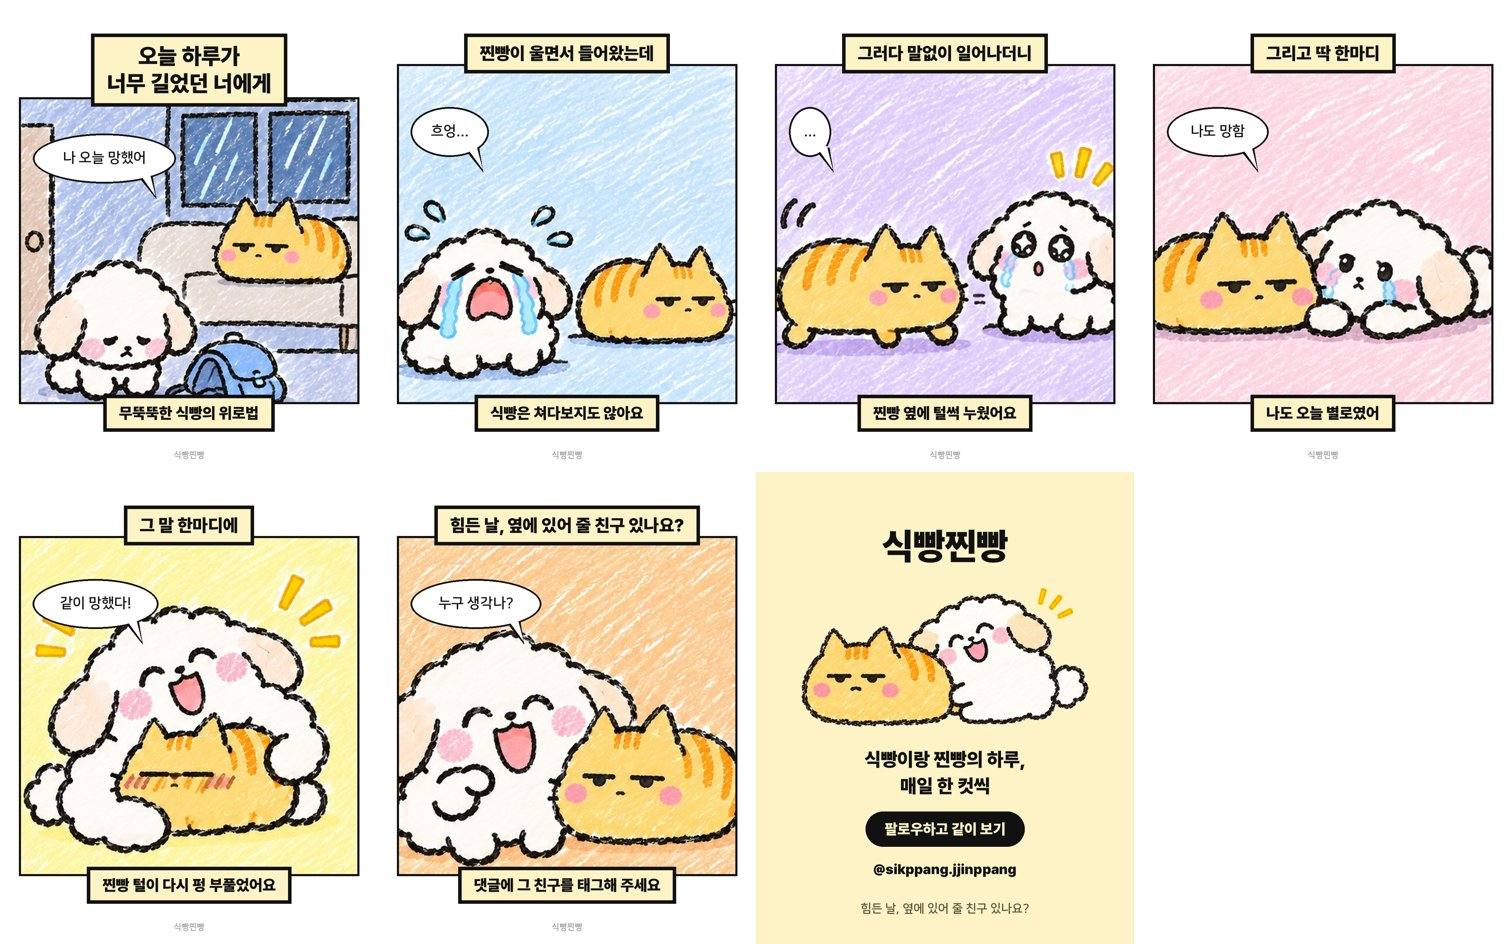
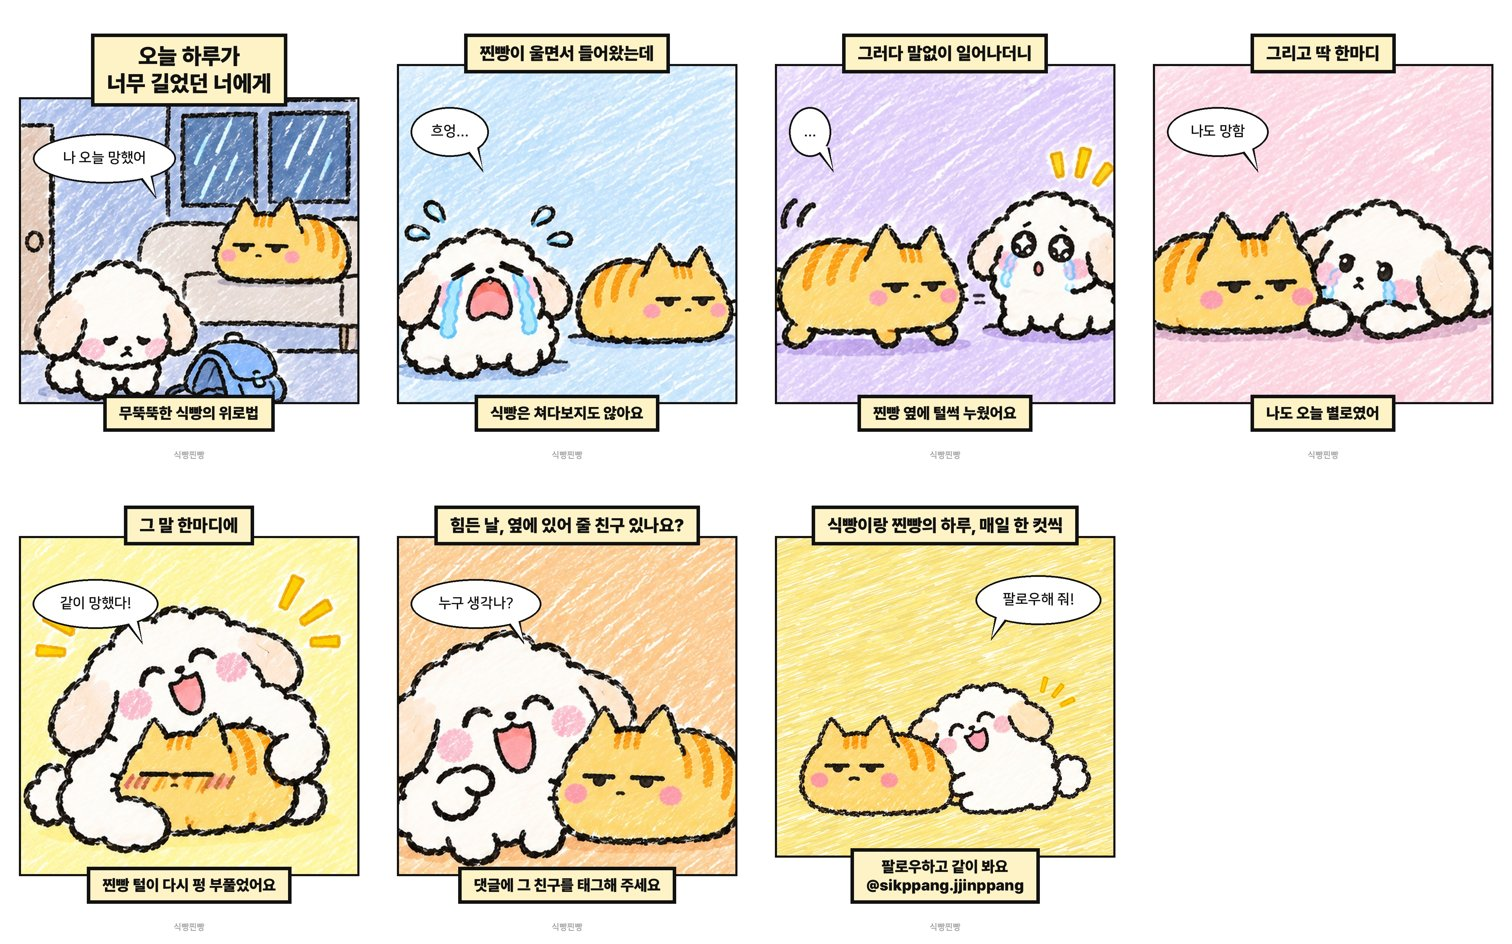
식빵찐빵 마지막 장을 툰 칸 틀(크레파스 배경·말풍선)로 변경
Claude-Session: https://claude.ai/code/session_013eU9uq1P2Bb4dDg9KpxaiF

Changed region(s): [[0.4974, 0.4915, 0.7771, 1.0]]

diff --git a/screendaily/cards.py b/screendaily/cards.py
@@ -1362,38 +1362,37 @@ def render_follow_card(post: Post, config: dict) -> Image.Image:
     return canvas.convert("RGB")
 
 
+def _crayon_panel(size: tuple[int, int], base=(255, 232, 130), seed: int = 7) -> Image.Image:
+    """크레파스로 쓱쓱 문지른 듯한 단색 배경 (사선 짧은 획 + 종이 틈)."""
+    import random
+    rnd = random.Random(seed)
+    w, h = size
+    im = Image.new("RGB", size, (255, 252, 240))
+    d = ImageDraw.Draw(im)
+    for _ in range(int(w * h / 90)):
+        x, y = rnd.uniform(-40, w), rnd.uniform(-20, h)
+        ln = rnd.uniform(30, 90)
+        k = rnd.uniform(-14, 10)
+        c = tuple(max(0, min(255, int(v + k))) for v in base)
+        d.line((x, y + ln * 0.35, x + ln, y), fill=c, width=rnd.choice((2, 3, 3, 4)))
+    return im.filter(ImageFilter.GaussianBlur(0.6))
+
+
 def render_toon_follow(post: Post, config: dict) -> Image.Image:
-    """인스타툰 채널 마지막 장: 크림색 바탕 + 캐릭터 그림 + 채널 이름·팔로우 버튼 (outro.style: toon_follow)."""
+    """인스타툰 채널 마지막 장: 툰 칸과 같은 틀(위·아래 크림 상자 + 크레파스 칸 + 말풍선) (outro.style: toon_follow)."""
     o = config.get("outro", {})
-    canvas = Image.new("RGBA", (W, H), TOON_BOX + (255,))
-    d = ImageDraw.Draw(canvas)
-    d.text((W / 2, 150), config.get("brand", ""), font=font(TOON_FONT, 104), fill=TOON_INK, anchor="ma")
+    panel = _crayon_panel((1000, 1000))
     art = o.get("image")
-    y = 330
     if art:
         im = Image.open(ROOT / art).convert("RGBA")
-        aw = min(820, W - M * 2)
+        aw = 860
         im = im.resize((aw, int(im.height * aw / im.width)), Image.LANCZOS)
-        canvas.alpha_composite(im, ((W - aw) // 2, y))
-        y += im.height + 60
-    d = ImageDraw.Draw(canvas)
-    for t in o.get("title", "").split("\n"):
-        if t:
-            d.text((W / 2, y), t, font=font(TOON_FONT, 54), fill=TOON_INK, anchor="ma")
-            y += 76
-    y += 30
-    cf = font(TOON_FONT, 42)
-    cta = post.outro_cta or o.get("cta", "팔로우하기")
-    bw = _tw(cf, cta) + 110
-    d.rounded_rectangle(((W - bw) / 2, y, (W + bw) / 2, y + 100), radius=50, fill=TOON_INK)
-    d.text((W / 2, y + 50), cta, font=cf, fill=TOON_BOX, anchor="mm")
-    y += 140
-    d.text((W / 2, y), config.get("handle", ""), font=font(TOON_FONT, 40), fill=TOON_INK, anchor="ma")
-    question = post.outro_question or o.get("question")
-    if question:
-        d.text((W / 2, H - 120), question, font=font(B, 34), fill=(90, 80, 60), anchor="ma")
-    return canvas.convert("RGB")
-
+        pr = panel.convert("RGBA")
+        pr.alpha_composite(im, ((1000 - aw) // 2, 1000 - im.height - 150))
+        panel = pr.convert("RGB")
+    top = o.get("title", config.get("brand", ""))
+    bottom = f"{o.get('cta', '팔로우하기')}\n{config.get('handle', '')}"
+    return _toon_card(top, bottom, panel, o.get("bubble", ""), 99, config, pos=o.get("bubble_pos", "left-top"))
 
 # ── 인스타툰 (흰 바탕 + 위·아래 크림색 내레이션 상자 + 가운데 그림 + 손글씨 말풍선) ──
 TOON_BG, TOON_BOX, TOON_INK = (255, 255, 255), (253, 243, 199), (17, 17, 17)
